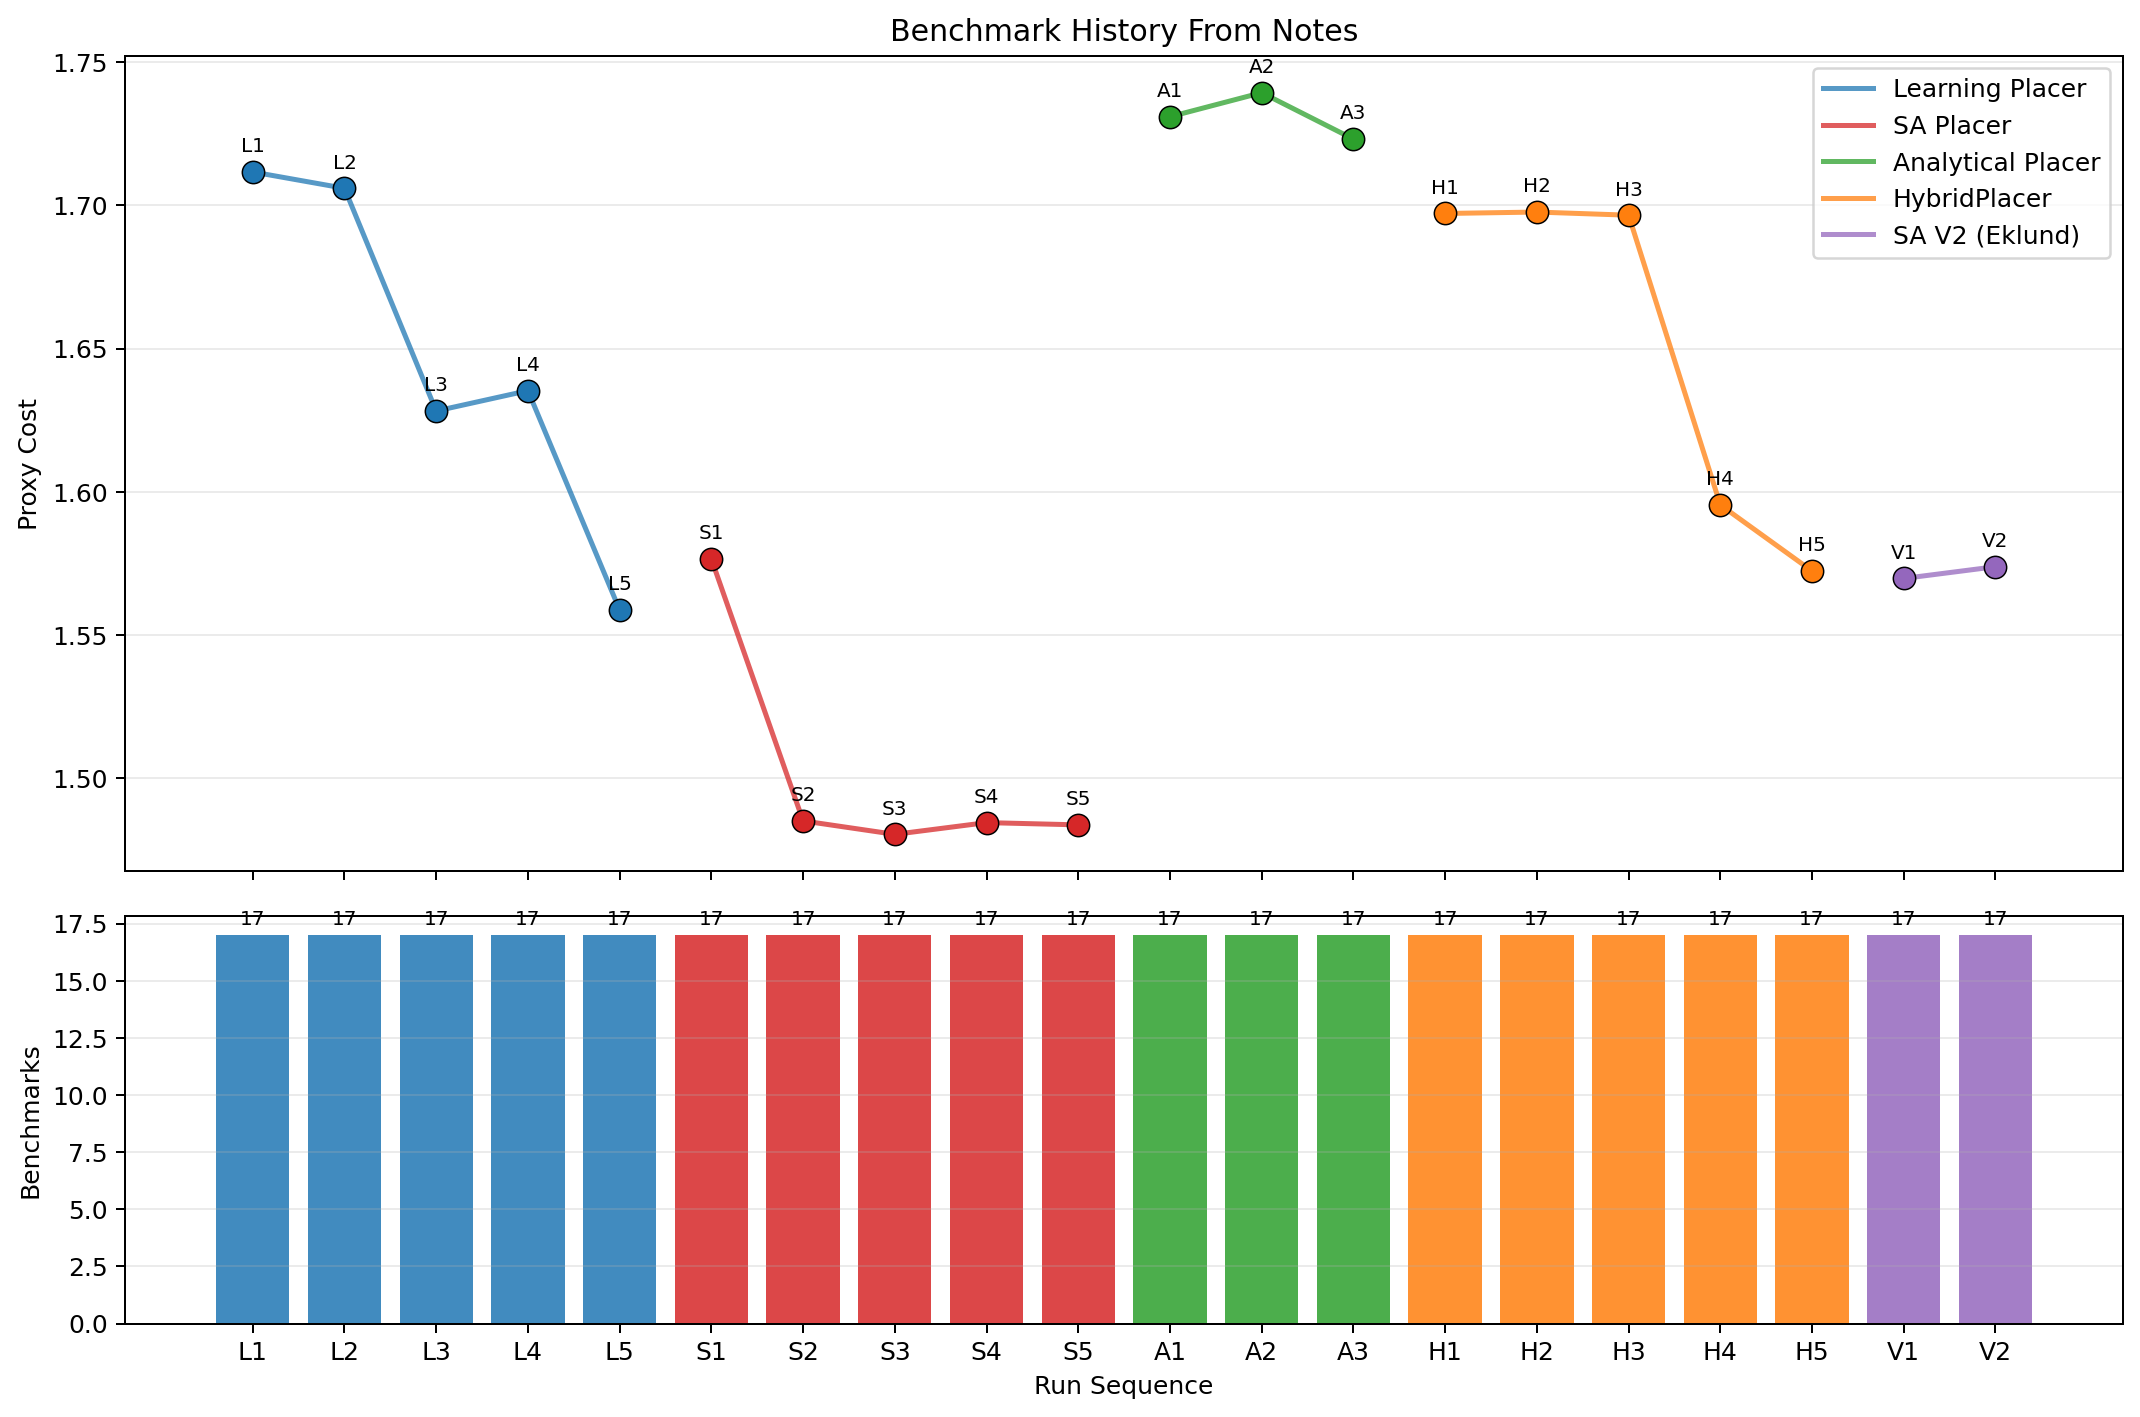
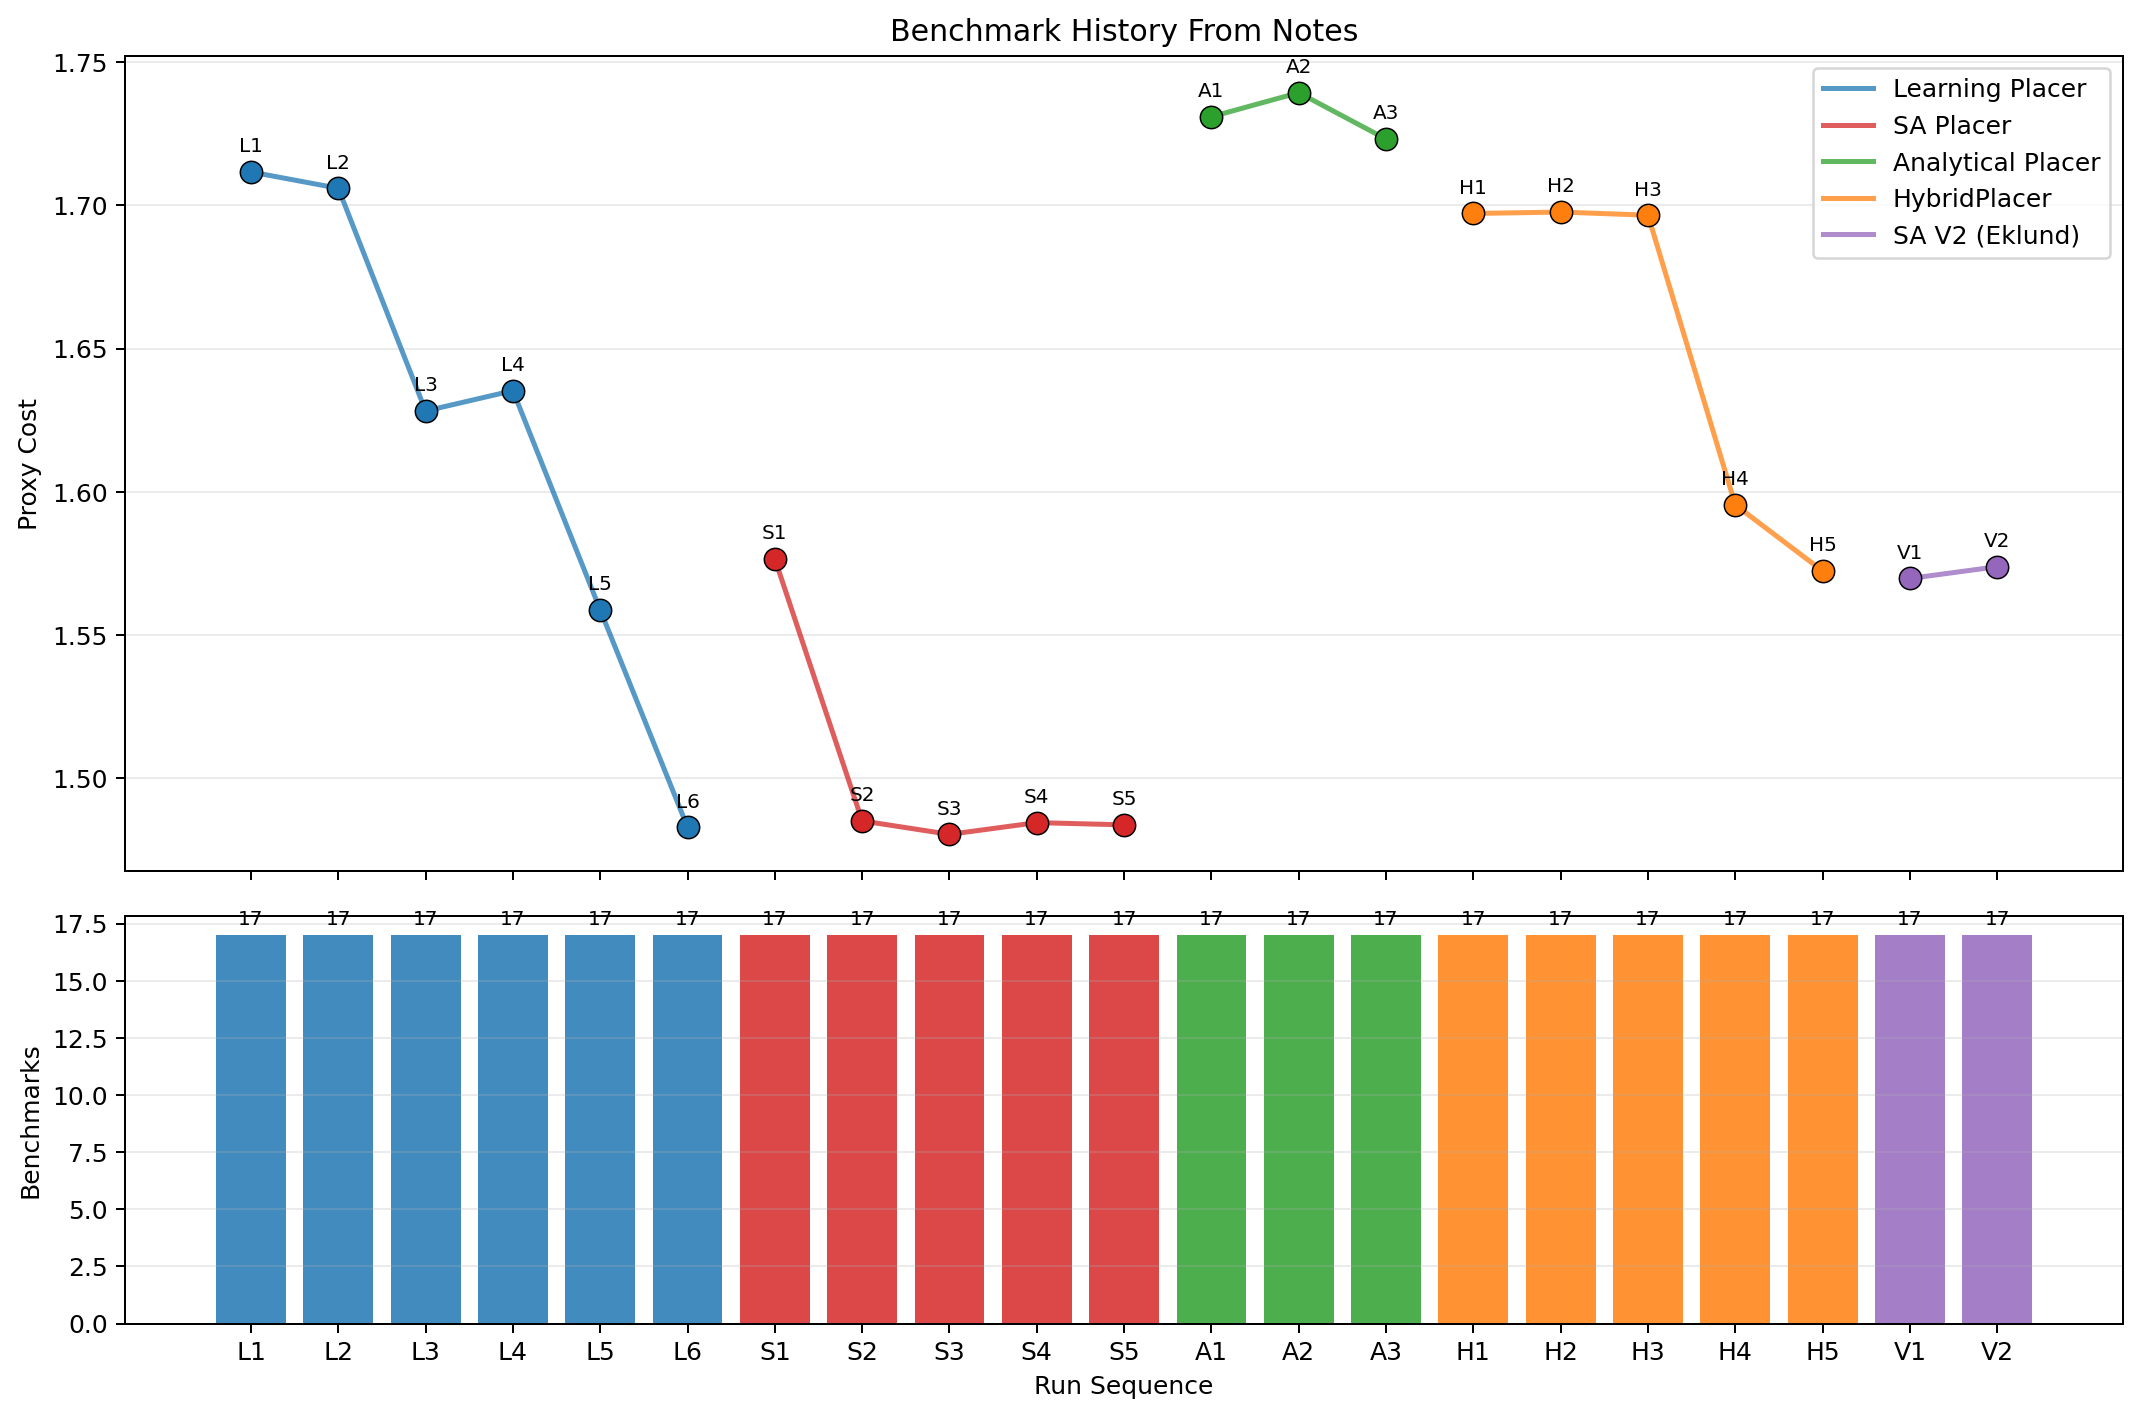
Update benchmark results and improve parsing logic for Learning Placer

diff --git a/notes/benchmark history/generate_benchmark_history.py b/notes/benchmark history/generate_benchmark_history.py
@@ -52,6 +52,13 @@ def _safe_float(s: str) -> float | None:
         return None
 
 
+def split_heading_date_title(heading: str) -> tuple[str, str]:
+    match = re.match(r"^(\d{4}-\d{2}-\d{2})\s*(?:â€”|—|-)\s*(.+)$", heading)
+    if match:
+        return match.group(1), match.group(2).strip()
+    return "", heading
+
+
 def parse_learning() -> tuple[list[RunRecord], list[dict[str, object]]]:
     path = NOTES_ROOT / "(RL method)eklundnotes.md"
     text = path.read_text(encoding="utf-8")
@@ -72,10 +79,7 @@ def parse_learning() -> tuple[list[RunRecord], list[dict[str, object]]]:
         heading = block.splitlines()[0][3:].strip()
         if "sa_v2" in heading.lower() or "sa v2" in heading.lower():
             continue
-        if "—" in heading:
-            date, title = [part.strip() for part in heading.split("—", 1)]
-        else:
-            date, title = "", heading
+        date, title = split_heading_date_title(heading)
 
         method = "Learning Placer"
         benchmarks: list[BenchmarkRow] = []
@@ -513,10 +517,7 @@ def parse_sa_v2() -> tuple[list[RunRecord], list[dict[str, object]]]:
         if "sa_v2" not in heading.lower() and "sa v2" not in heading.lower():
             continue
 
-        if "—" in heading:
-            date, title = [part.strip() for part in heading.split("—", 1)]
-        else:
-            date, title = "", heading
+        date, title = split_heading_date_title(heading)
 
         method = "SA V2 (Eklund)"
         benchmarks: list[BenchmarkRow] = []
@@ -622,3 +623,4 @@ def main() -> None:
 
 if __name__ == "__main__":
     main()
+

diff --git a/notes/benchmark history/benchmark_history_raw.md b/notes/benchmark history/benchmark_history_raw.md
@@ -11,6 +11,7 @@ Generated from the note files in this directory.
 | L3 | Learning Placer | 2026-04-04 | v2: Pre-trained GNN + Density-aware SA + Greedy Flipping | full_suite | 17 | 1.6282 | 1.6282 | 84.55 | (RL method)eklundnotes.md |
 | L4 | Learning Placer | 2026-04-05 | v3: Research-paper-informed pretraining improvements | full_suite | 17 | 1.6353 | 1.6353 | 2275.30 | (RL method)eklundnotes.md |
 | L5 | Learning Placer | 2026-04-06 | v4: Congestion-focused overhaul + compute increase | full_suite | 17 | 1.5587 | 1.5587 | 16101.80 | (RL method)eklundnotes.md |
+| L6 | Learning Placer | 2026-04-07 | v6: fast full-suite rerun (`--no-media`) | full_suite | 17 | 1.4828 | 1.4828 | - | (RL method)eklundnotes.md |
 | S1 | SA Placer | 2026-04-03 | SA Placer (PLACER_METHOD=sa) | full_suite | 17 | 1.5765 | 1.5765 | 215.00 | (SA + Analytical method) Omnellnotes.md |
 | S2 | SA Placer | 2026-04-04 | SA Placer (PLACER_METHOD=sa) | full_suite | 17 | 1.4850 | 1.4850 | 999.38 | (SA + Analytical method) Omnellnotes.md |
 | S3 | SA Placer | 2026-04-04, v2 | SA Placer (PLACER_METHOD=sa) | full_suite | 17 | 1.4803 | 1.4803 | 676.83 | (SA + Analytical method) Omnellnotes.md |
@@ -116,6 +117,23 @@ Generated from the note files in this directory.
 | L5 | Learning Placer | ibm16 | 1.5033 | 0.049 | 0.811 | 2.098 | 1321.16 | (RL method)eklundnotes.md |
 | L5 | Learning Placer | ibm17 | 1.7580 | 0.052 | 0.945 | 2.467 | 1438.32 | (RL method)eklundnotes.md |
 | L5 | Learning Placer | ibm18 | 1.7984 | 0.053 | 1.043 | 2.447 | 674.22 | (RL method)eklundnotes.md |
+| L6 | Learning Placer | ibm01 | 1.1167 | - | - | - | - | (RL method)eklundnotes.md |
+| L6 | Learning Placer | ibm02 | 1.5970 | - | - | - | - | (RL method)eklundnotes.md |
+| L6 | Learning Placer | ibm03 | 1.3886 | - | - | - | - | (RL method)eklundnotes.md |
+| L6 | Learning Placer | ibm04 | 1.3923 | - | - | - | - | (RL method)eklundnotes.md |
+| L6 | Learning Placer | ibm06 | 1.6923 | - | - | - | - | (RL method)eklundnotes.md |
+| L6 | Learning Placer | ibm07 | 1.4864 | - | - | - | - | (RL method)eklundnotes.md |
+| L6 | Learning Placer | ibm08 | 1.5223 | - | - | - | - | (RL method)eklundnotes.md |
+| L6 | Learning Placer | ibm09 | 1.1035 | - | - | - | - | (RL method)eklundnotes.md |
+| L6 | Learning Placer | ibm10 | 1.3697 | - | - | - | - | (RL method)eklundnotes.md |
+| L6 | Learning Placer | ibm11 | 1.2315 | - | - | - | - | (RL method)eklundnotes.md |
+| L6 | Learning Placer | ibm12 | 1.6441 | - | - | - | - | (RL method)eklundnotes.md |
+| L6 | Learning Placer | ibm13 | 1.3902 | - | - | - | - | (RL method)eklundnotes.md |
+| L6 | Learning Placer | ibm14 | 1.6145 | - | - | - | - | (RL method)eklundnotes.md |
+| L6 | Learning Placer | ibm15 | 1.5939 | - | - | - | - | (RL method)eklundnotes.md |
+| L6 | Learning Placer | ibm16 | 1.5277 | - | - | - | - | (RL method)eklundnotes.md |
+| L6 | Learning Placer | ibm17 | 1.7493 | - | - | - | - | (RL method)eklundnotes.md |
+| L6 | Learning Placer | ibm18 | 1.7871 | - | - | - | - | (RL method)eklundnotes.md |
 | S1 | SA Placer | ibm01 | 1.2923 | 0.067 | 1.070 | 1.381 | 12.50 | (SA + Analytical method) Omnellnotes.md |
 | S1 | SA Placer | ibm02 | 1.7310 | 0.075 | 0.901 | 2.411 | 7.32 | (SA + Analytical method) Omnellnotes.md |
 | S1 | SA Placer | ibm03 | 1.4484 | 0.078 | 0.895 | 1.846 | 7.54 | (SA + Analytical method) Omnellnotes.md |

diff --git a/README.md b/README.md
@@ -17,13 +17,13 @@ Submissions are ranked by **average proxy cost** across all 17 IBM benchmarks (l
 | 3 | "Convex Optimization" (UWaterloo Student) | 1.4556 | — | — | 0 | 16s total |  |
 | 4 | "another Waterloo kid" (Batched Nesterov GP) | 1.4568 | — | — | 0 | 118s/bench |  |
 | — | RePlAce (baseline) | 1.4578 | 0.9976 | 1.8370 | 0 | — | ✅ |
-| 5 | **SA Placer (ours)** | **1.4850** | **1.1079** | **1.7875** | **0** | **999.38s total** |  |
-| 6 | "oracleX" (Oracle) | 1.5130 | — | — | 0 | 3min/bench |  |
-| 7 | "CA" (congestion_aware) | 1.5238 | — | — | 0 | 13s/bench |  |
-| 8 | Will Seed (Partcl) | 1.5338 | 1.1625 | 1.7965 | 0 | 35s total | ✅ |
-| 9 | **Learning Placer (ours)** | **1.5587** | **1.1477** | **1.7984** | **0** | **16101.83s total** |  |
-| 10 | **SA V2 (Eklund, ours)** | **1.5738** | **1.2071** | **1.8011** | **0** | **668.95s total** |  |
-| 11 | **HybridPlacer v5 (ours)** | **1.5723** | **1.1204** | **1.8583** | **0** | **24641.71s total** |  |
+| 5 | **Learning Placer (ours)** | **1.4828** | **1.1035** | **1.7871** | **0** | **801.32s total** |  |
+| 6 | **SA Placer (ours)** | **1.4850** | **1.1079** | **1.7875** | **0** | **999.38s total** |  |
+| 7 | "oracleX" (Oracle) | 1.5130 | — | — | 0 | 3min/bench |  |
+| 8 | "CA" (congestion_aware) | 1.5238 | — | — | 0 | 13s/bench |  |
+| 9 | Will Seed (Partcl) | 1.5338 | 1.1625 | 1.7965 | 0 | 35s total | ✅ |
+| 10 | **HybridPlacer v5 (ours)** | **1.5723** | **1.1204** | **1.8583** | **0** | **24641.71s total** |  |
+| 11 | **SA V2 (Eklund, ours)** | **1.5738** | **1.2071** | **1.8011** | **0** | **668.95s total** |  |
 | 12 | "UT Austin" - RH (DREAMPlace) | 1.6037 | — | — | 0 | 4.5s/bench |  |
 | 13 | **Analytical Placer (ours)** | **1.7394** | **1.3438** | **2.0684** | **0** | **598.68s total** |  |
 | 14 | "UT Austin" - CT (PROXYCost) | 1.8706 | — | — | 0 | 187s/bench |  |
@@ -40,7 +40,7 @@ Benchmark-history tracking for the note sections lives in:
 
 ![Benchmark history summary](notes/benchmark%20history/benchmark_history_full_suite.png)
 
-Latest update includes the new HybridPlacer v5 `H5` run (1.5723) from `2026-04-07` and SA V2 `V2` from `2026-04-07`.
+Latest update includes the new Learning Placer `L6` / v6 run (1.4828) from `2026-04-07`, plus HybridPlacer v5 `H5` (1.5723) and SA V2 `V2` (1.5738).
 
 ## About Macro Placement
 

diff --git a/notes/(RL method)eklundnotes.md b/notes/(RL method)eklundnotes.md
@@ -235,3 +235,34 @@ Method: `PLACER_METHOD=sa_v2` — SA V2 with HPWL caching, adaptive moves, LAHC,
 Beat SA baseline on 16/17. Beat RePlAce on 1/17 (ibm02).
 **Result:** Quality is essentially tied with the previous SA V2 full-suite run (1.5697 -> 1.5738, +0.3%), but runtime improved dramatically (3478.35s -> 668.95s, about 5.2x faster).
 This keeps SA V2 clearly ahead of the SA baseline while making it much more practical under the competition runtime limit.
+
+## 2026-04-07 â€” v6: fast full-suite rerun (`--no-media`)
+
+Method: Learning Placer v6 via `submissions/placer.py --all --no-media`
+
+### Full suite run (this config):
+| Benchmark | Proxy | WL | Density | Congestion | Time | vs SA baseline |
+|-----------|-------|-----|---------|------------|------|----------------|
+| ibm01 | 1.1167 | - | - | - | - | BETTER (1.3166) |
+| ibm02 | 1.5970 | - | - | - | - | BETTER (1.9072) |
+| ibm03 | 1.3886 | - | - | - | - | BETTER (1.7401) |
+| ibm04 | 1.3923 | - | - | - | - | BETTER (1.5037) |
+| ibm06 | 1.6923 | - | - | - | - | BETTER (2.5057) |
+| ibm07 | 1.4864 | - | - | - | - | BETTER (2.0229) |
+| ibm08 | 1.5223 | - | - | - | - | BETTER (1.9239) |
+| ibm09 | 1.1035 | - | - | - | - | BETTER (1.3875) |
+| ibm10 | 1.3697 | - | - | - | - | BETTER (2.1108) |
+| ibm11 | 1.2315 | - | - | - | - | BETTER (1.7111) |
+| ibm12 | 1.6441 | - | - | - | - | BETTER (2.8261) |
+| ibm13 | 1.3902 | - | - | - | - | BETTER (1.9141) |
+| ibm14 | 1.6145 | - | - | - | - | BETTER (2.2750) |
+| ibm15 | 1.5939 | - | - | - | - | BETTER (2.3000) |
+| ibm16 | 1.5277 | - | - | - | - | BETTER (2.2337) |
+| ibm17 | 1.7493 | - | - | - | - | BETTER (3.6726) |
+| ibm18 | 1.7871 | - | - | - | - | BETTER (2.7755) |
+| **AVG** | **1.4828** | | | | 801.32s | **SA: 2.1251** |
+
+Beat SA baseline on 17/17. Beat RePlAce on 11/17.
+**Major improvement: 1.5587 -> 1.4828 (-4.9%).**
+This L6/V6 run is the strongest logged Learning Placer result so far and now edges past our SA Placer baseline average (1.4850).
+Per-benchmark WL/density/congestion breakdown was not captured in the pasted summary, so only proxy and total runtime are logged for this run.

diff --git a/notes/benchmark history/benchmark_history_summary.md b/notes/benchmark history/benchmark_history_summary.md
@@ -16,6 +16,7 @@ This graph summarizes the full-suite benchmark sections logged in the notes.
 | L3 | Learning Placer | 2026-04-04 | full_suite | 1.6282 | 17 |
 | L4 | Learning Placer | 2026-04-05 | full_suite | 1.6353 | 17 |
 | L5 | Learning Placer | 2026-04-06 | full_suite | 1.5587 | 17 |
+| L6 | Learning Placer | 2026-04-07 | full_suite | 1.4828 | 17 |
 | S1 | SA Placer | 2026-04-03 | full_suite | 1.5765 | 17 |
 | S2 | SA Placer | 2026-04-04 | full_suite | 1.4850 | 17 |
 | S3 | SA Placer | 2026-04-04, v2 | full_suite | 1.4803 | 17 |
